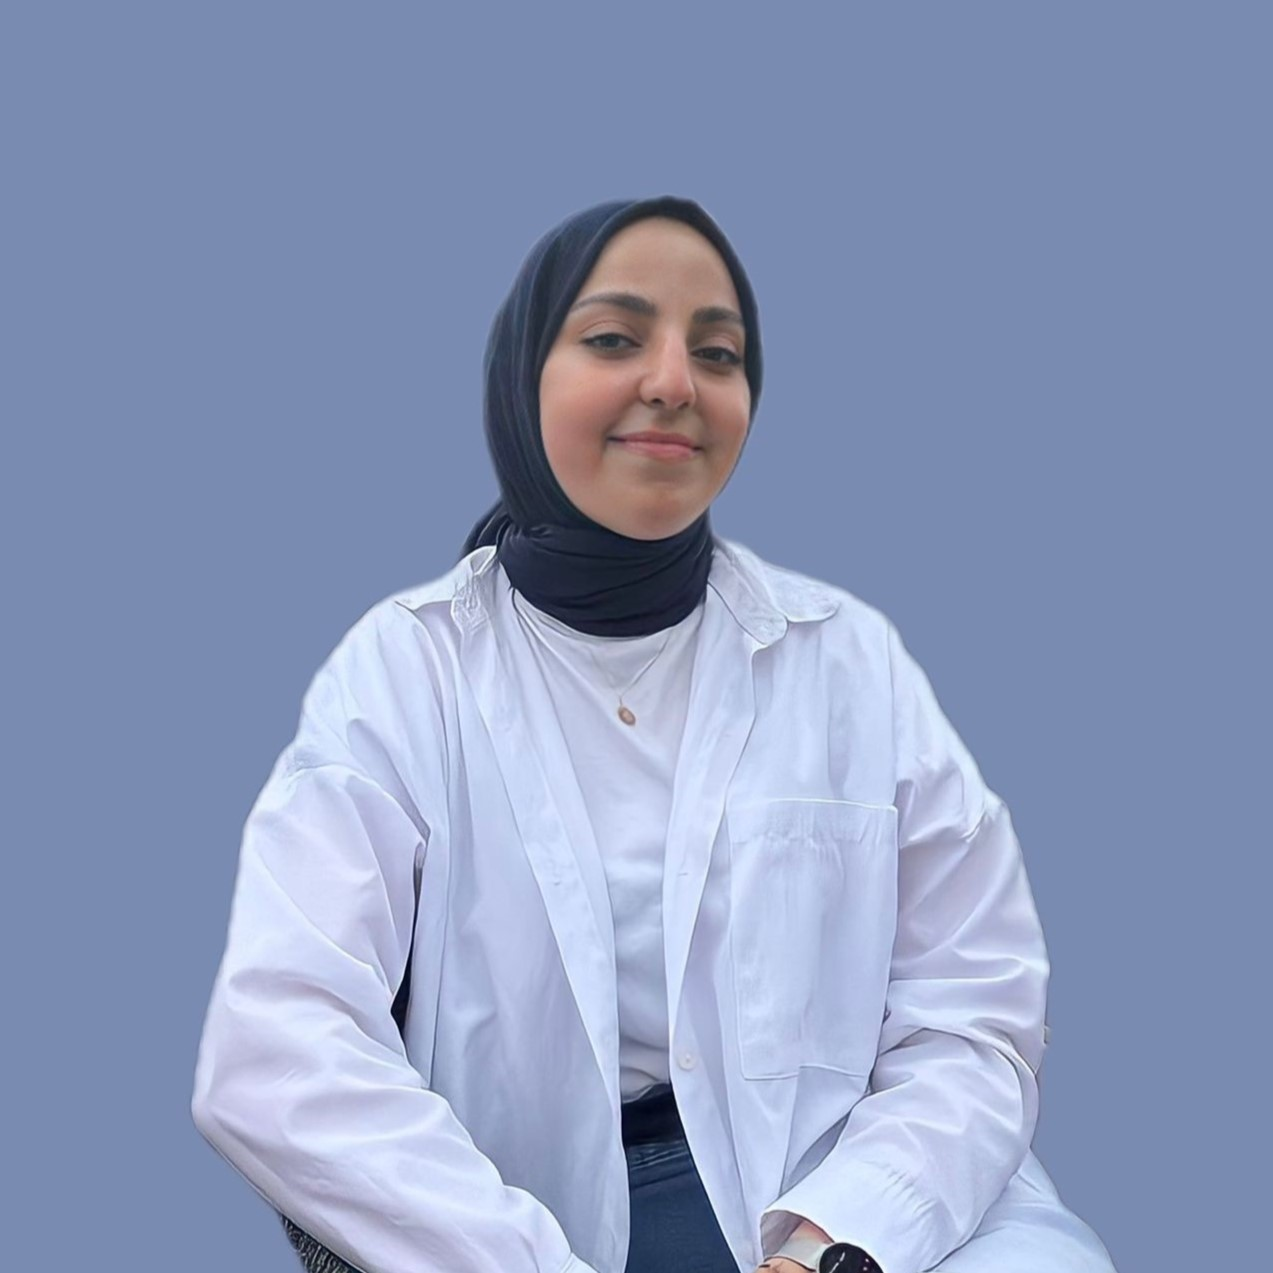
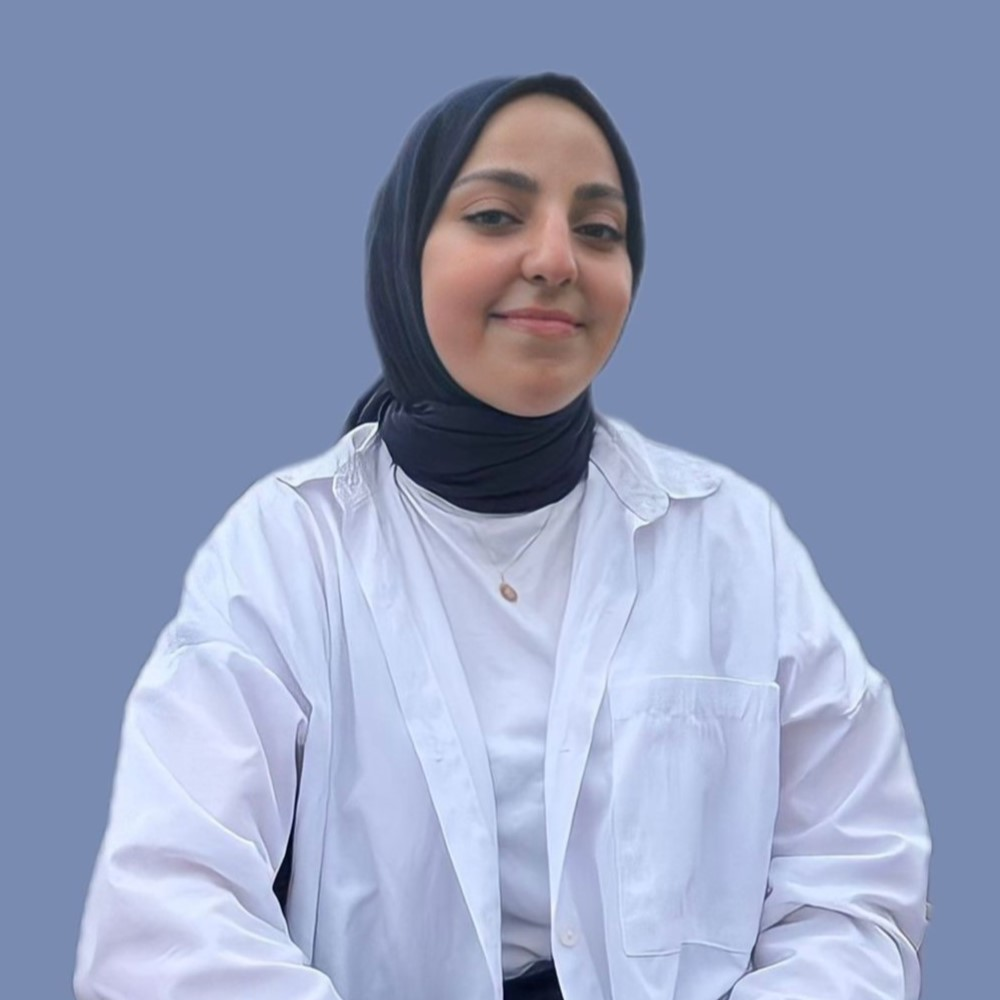
EditedImg

Changed region(s): [[0.062, 0.062, 0.93, 1.0], [0.434, 0.589, 0.465, 0.651]]

diff --git a/src/pages/AboutPage/index.js b/src/pages/AboutPage/index.js
@@ -5,6 +5,7 @@ import { Container, Row, Col } from "react-bootstrap";
 import "./index.scss";
 import healthyNutrition from "../../img/AboutPage/abotPageHealthyNutrition.jpg";
 import personEla from "../../img/AboutPage/personEla.jpeg";
+import personSule from "../../img/AboutPage/personSule.jpg"
 
 const Hakkimizda = () => {
   const [loading, setLoading] = useState(false);
@@ -36,7 +37,7 @@ const Hakkimizda = () => {
                   Now it's your turn to eating healthy...
                 </h2>
                 <p className="hero-section-text">
-                  We, as Healthy Nutrition Compass, aim to assist individuals in
+                  We, as Healthy Nutrition Map, aim to assist individuals in
                   adopting and maintaining a healthy lifestyle. Our goal is to
                   promote healthy eating habits and increase awareness of
                   healthy living within the community.
@@ -70,7 +71,7 @@ const Hakkimizda = () => {
                   and more energetic community.
                 </p>
                 <p>
-                  As Healthy Nutrition Compass, we will continue to guide and
+                  As Healthy Nutrition Map, we will continue to guide and
                   support individuals in adopting a healthy lifestyle according
                   to this vision. We strive to contribute to everyone acquiring
                   conscious eating habits for a healthier future.
@@ -96,7 +97,7 @@ const Hakkimizda = () => {
         <Container>
           <Row>
             <Col  md={6} sm={12} >
-              <div className="team-section-description d-flex align-items-center ">
+              <div className="team-section-description d-flex align-items-center  text-start  ">
                 <img
                   className=" team-section-img w-25 h-25 rounded-circle me-3 "
                   src={personEla}
@@ -112,12 +113,12 @@ const Hakkimizda = () => {
               <div className="team-section-description d-flex align-items-center text-start ">
                 <img
                   className="team-section-img w-25 h-25 rounded-circle me-3 "
-                  src={personEla}
+                  src={personSule}
                   alt="Şule Aktaş"
                 />
                 <div className="team-section-information">
                   <h3 className="team-section-title">Şule Aktaş</h3>
-                  <p className="team-section-role">asas</p>
+                  <p className="team-section-role">AI</p>
                 </div>
               </div>
             </Col>
